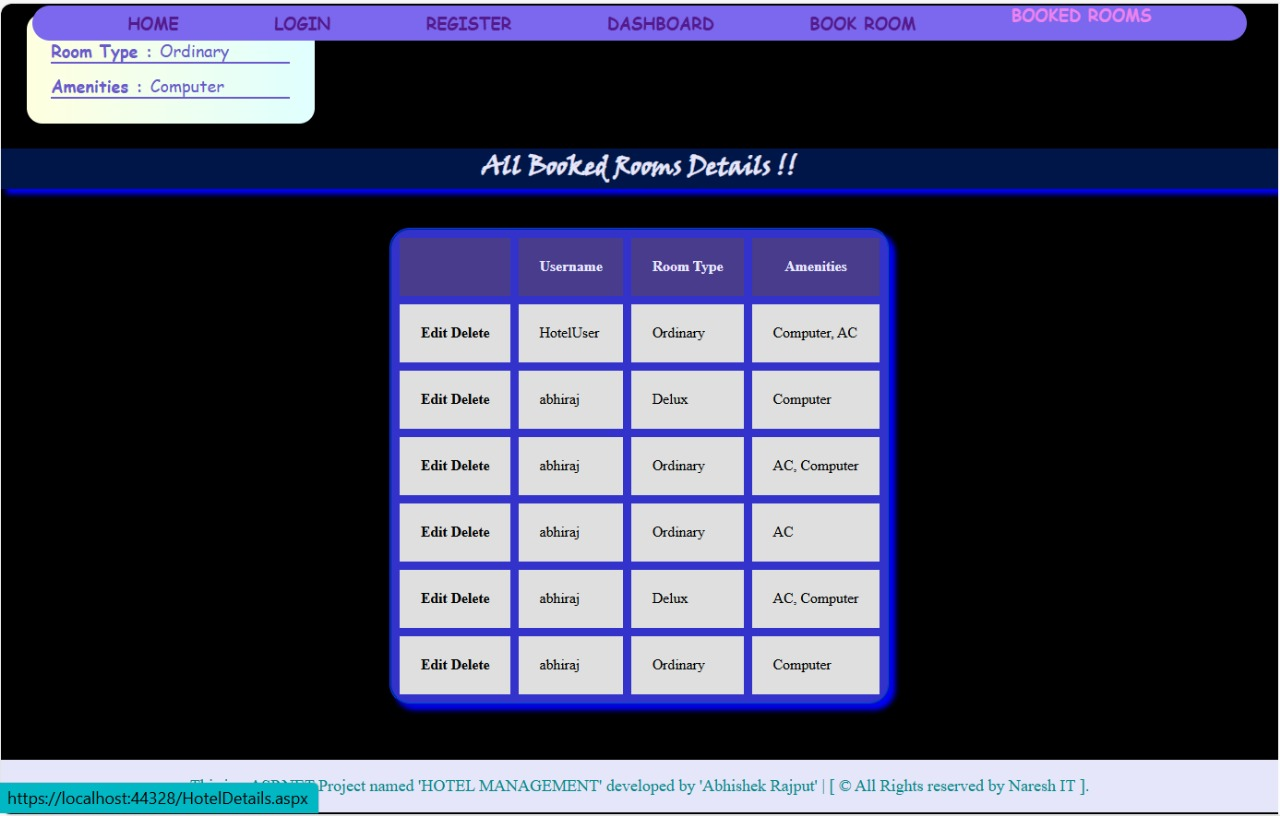
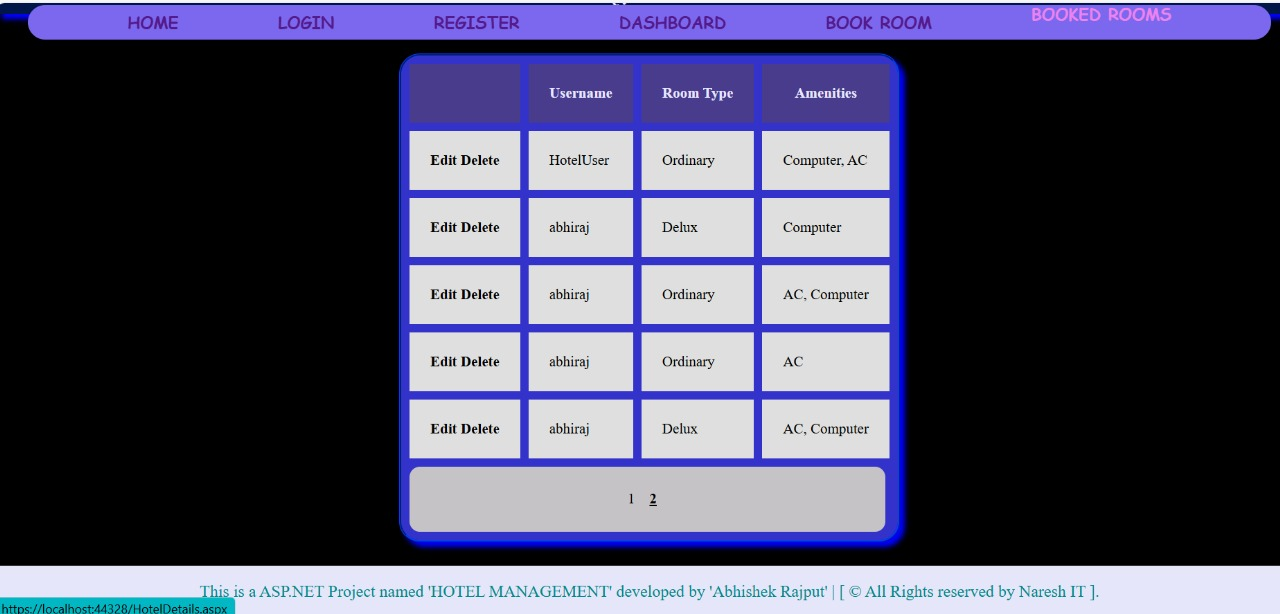
Updated Css and Screenshots

diff --git a/Styles/booked.css b/Styles/booked.css
@@ -38,15 +38,15 @@
     margin:2%;
     
 }
-.pager {
-    margin: 0px 5px;
-    text-decoration: none;
-    color: #007bff;
-    text-align:center;
-    display:flex;
-    flex-direction:row;
-    width:430%;
-    justify-content:space-around;
-    border-radius:10px;
-    padding:0px;
+.pager a{
+    margin:0px 10px;
+    text-decoration:underline;
 }
+.pager {
+    display: flex;
+    flex-direction: row;
+    width: 430%;
+    justify-content: space-around;
+    border-radius: 10px;
+}
+

diff --git a/Styles/dashboard.css b/Styles/dashboard.css
@@ -43,8 +43,12 @@
     font-family: 'Comic Sans MS';
 }
 .gv{
-    margin:auto;
-    font-size:14px;
-    border-radius:5px;
+    font-size:13px;
     box-shadow:5px 5px 5px teal;
+    margin: auto 20px;
+
+}
+.pager a {
+    margin: 0px 10px;
+    text-decoration: underline;
 }
